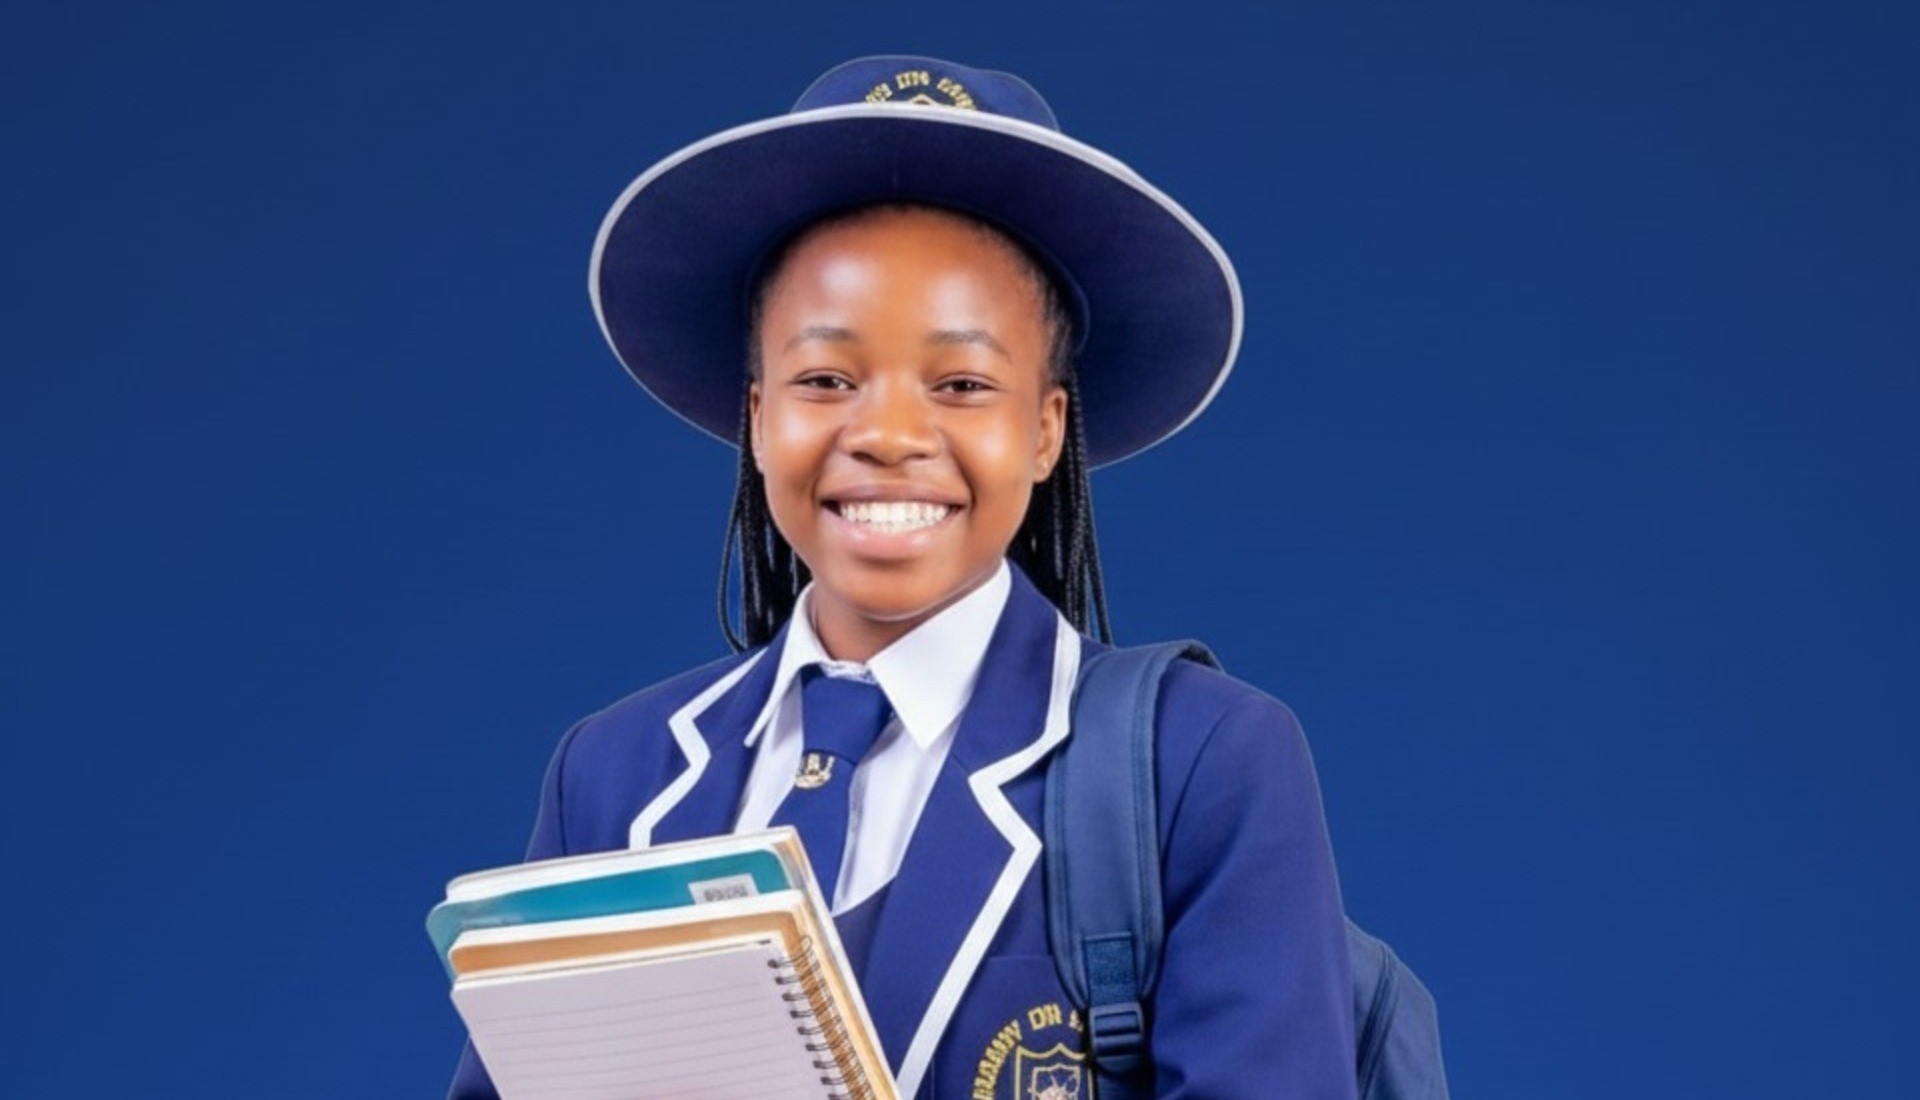
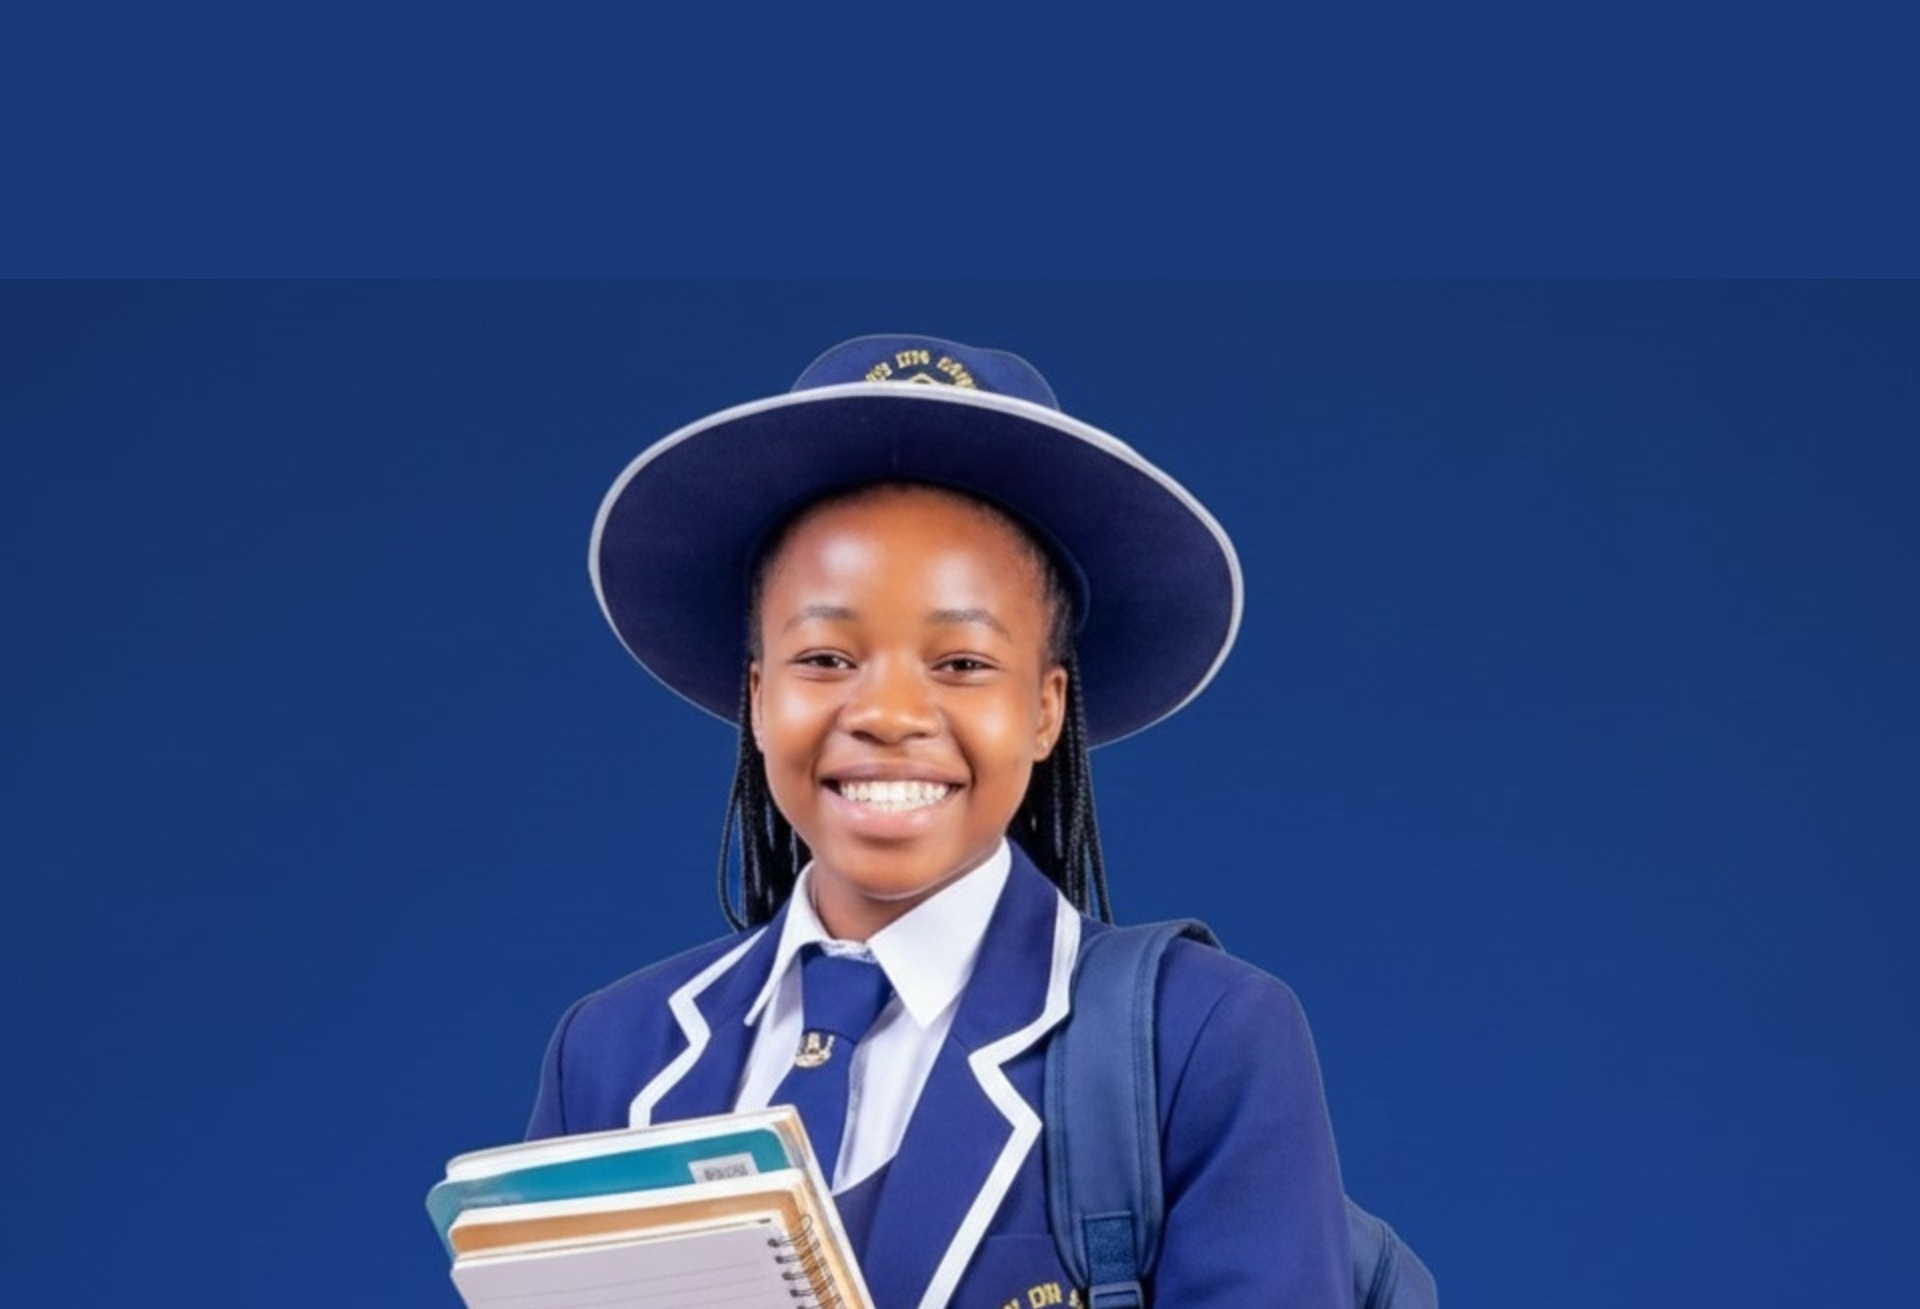
msg

Changed region(s): [[0.2188, 0.0309, 0.7812, 1.0]]

diff --git a/demo-elearning-testimonial.html b/demo-elearning-testimonial.html
@@ -186,8 +186,8 @@
     <!-- end header -->
     <!-- start page title -->
     <section
-      class="ipad-top-space-margin bg-dark-gray cover-background page-title-big-typography"
-      style="background-image: url(images/main.png)"
+      class="ipad-top-space-margin bg-dark-gray cover-background page-title-big-typography d-none d-md-block"
+      style="background-image: url(images/school-life-des.png)"
     >
       <div
         class="background-position-center-top h-100 w-100 position-absolute left-0px top-0"
@@ -218,7 +218,39 @@
       </div>
     </section>
     <!-- end page title -->
-
+     <!-- mobile -->
+     <section
+      class="ipad-top-space-margin bg-dark-gray cover-background page-title-big-typography d-block d-md-none"
+      style="background-image: url(images/school-life.png)"
+    >
+      <div
+        class="background-position-center-top h-100 w-100 position-absolute left-0px top-0"
+        style="background-image: url('images/vertical-line-bg-small.svg')"
+      ></div>
+      <div
+        id="particles-style-01"
+        class="h-100 position-absolute left-0px top-0 w-100"
+        data-particle="true"
+        data-particle-options='{"particles": {"number": {"value": 8,"density": {"enable": true,"value_area": 2000}},"color": {"value": ["#d5d52b", "#d5d52b", "#d5d52b", "#d5d52b", "#d5d52b"]},"shape": {"type": "circle","stroke":{"width":0,"color":"#000000"}},"opacity": {"value": 1,"random": false,"anim": {"enable": false,"speed": 1,"sync": false}},"size": {"value": 8,"random": true,"anim": {"enable": false,"sync": true}},"line_linked":{"enable":false,"distance":0,"color":"#ffffff","opacity":1,"width":1},"move": {"enable": true,"speed":1,"direction": "right","random": false,"straight": false}},"interactivity": {"detect_on": "canvas","events": {"onhover": {"enable": false,"mode": "repulse"},"onclick": {"enable": false,"mode": "push"},"resize": true}},"retina_detect": false}'
+      ></div>
+      <div class="container">
+        <div class="row align-items-center extra-small-screen">
+          <div
+            class="col-xl-6 col-lg-7 col-md-8 col-sm-9 position-relative page-title-extra-small"
+            data-anime='{ "el": "childs", "translateY": [-15, 0], "perspective": [1200,1200], "scale": [1.1, 1], "rotateX": [50, 0], "opacity": [0,1], "duration": 800, "delay": 200, "staggervalue": 300, "easing": "easeOutQuad" }'
+          >
+            <h1 class="mb-20px alt-font text-base-color">School Life</h1>
+            <h2 class="fw-500 m-0 ls-minus-2px text-white alt-font">
+              Life at Choxy Dee.
+            </h2>
+            <p class="text-white">
+              Experience a vibrant school community with sports, clubs, and
+              activities that nurture well-rounded individuals.
+            </p>
+          </div>
+        </div>
+      </div>
+    </section>
     <!-- Sports & Activities Section -->
     <section class="extracurricular-section sports-bg">
       <div class="container">

diff --git a/gallery.html b/gallery.html
@@ -102,7 +102,7 @@
         </header>
         <!-- end header --> 
         <!-- start page title -->
-        <section class="ipad-top-space-margin bg-dark-gray cover-background page-title-big-typography" style="background-image: url(images/hero-main.png)">
+        <section class="ipad-top-space-margin bg-dark-gray cover-background page-title-big-typography" style="background-image: url(images/gallery.png)">
             <div class="background-position-center-top h-100 w-100 position-absolute left-0px top-0" style="background-image: url('images/vertical-line-bg-small.svg')"></div>
             <div id="particles-style-01" class="h-100 position-absolute left-0px top-0 w-100" data-particle="true" data-particle-options='{"particles": {"number": {"value": 8,"density": {"enable": true,"value_area": 2000}},"color": {"value": ["#d5d52b", "#d5d52b", "#d5d52b", "#d5d52b", "#d5d52b"]},"shape": {"type": "circle","stroke":{"width":0,"color":"#000000"}},"opacity": {"value": 1,"random": false,"anim": {"enable": false,"speed": 1,"sync": false}},"size": {"value": 8,"random": true,"anim": {"enable": false,"sync": true}},"line_linked":{"enable":false,"distance":0,"color":"#ffffff","opacity":1,"width":1},"move": {"enable": true,"speed":1,"direction": "right","random": false,"straight": false}},"interactivity": {"detect_on": "canvas","events": {"onhover": {"enable": false,"mode": "repulse"},"onclick": {"enable": false,"mode": "push"},"resize": true}},"retina_detect": false}'></div>
             <div class="container">
